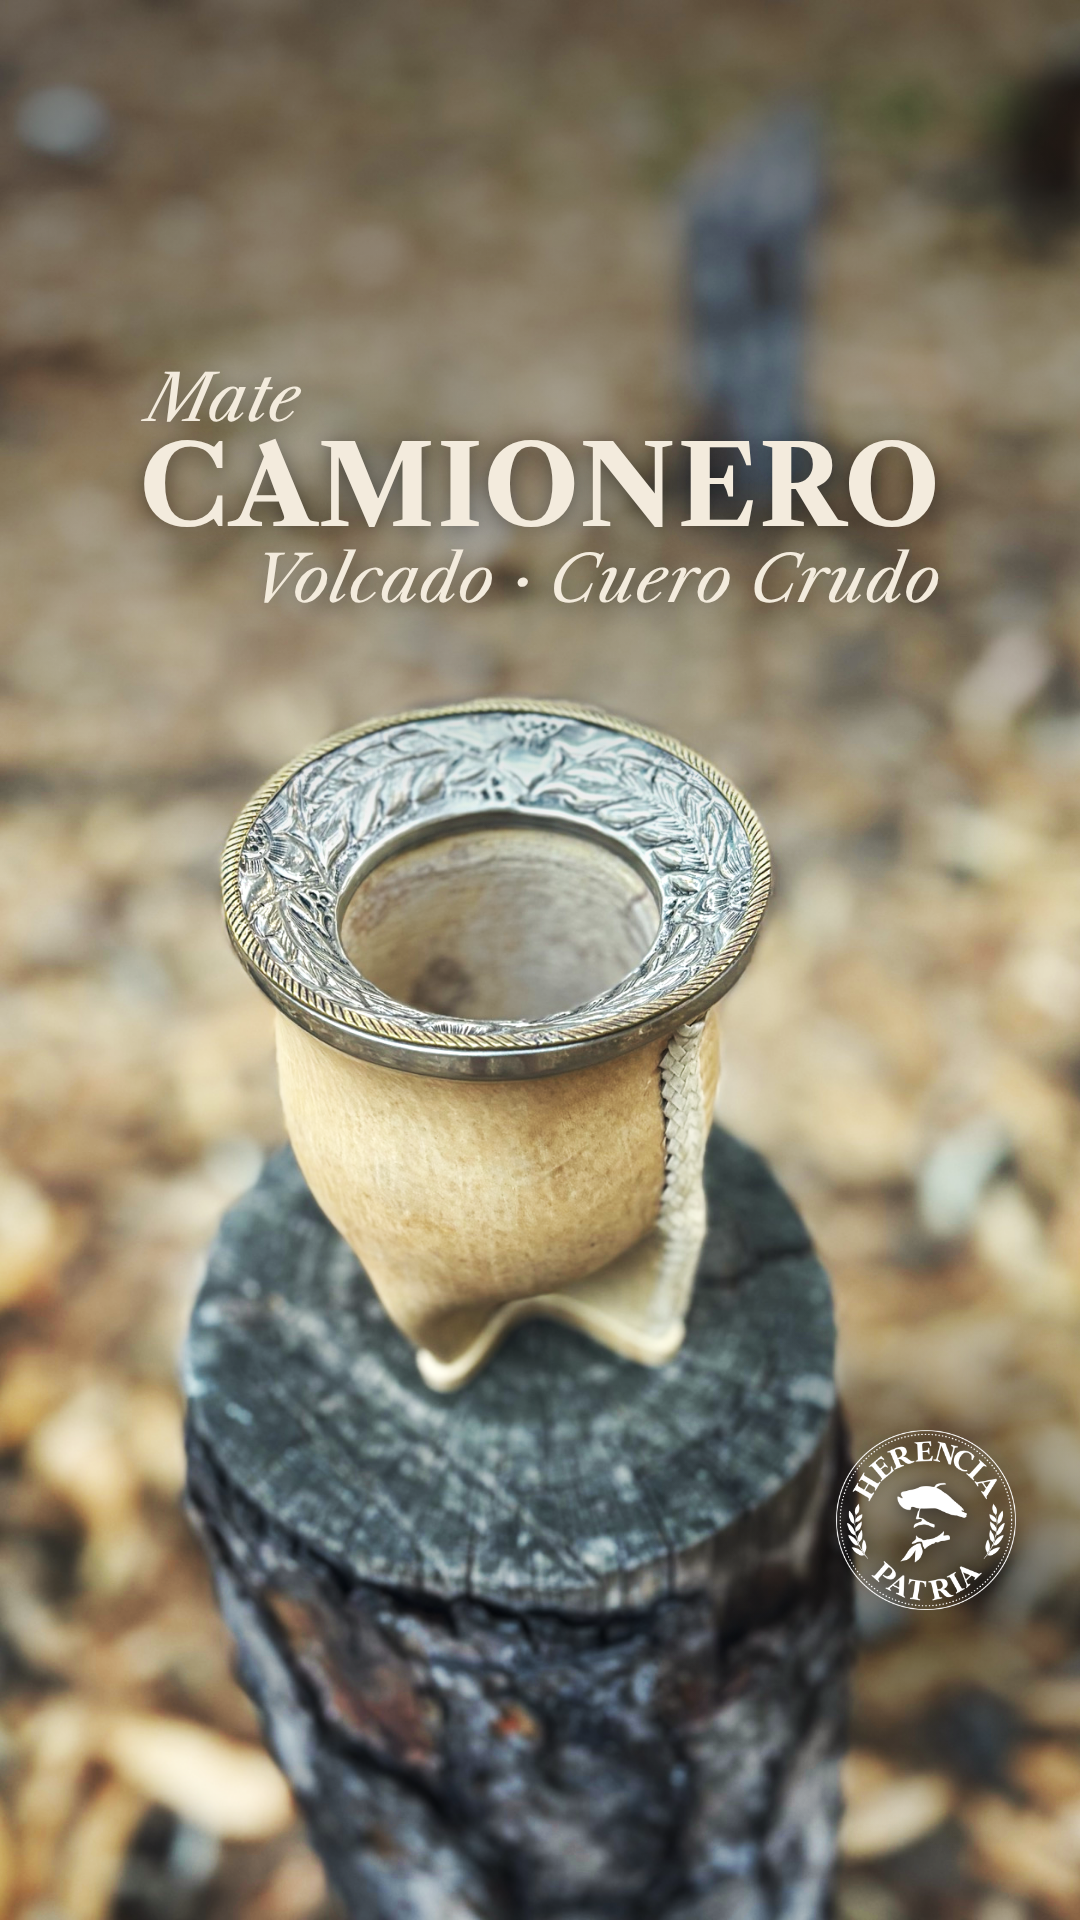
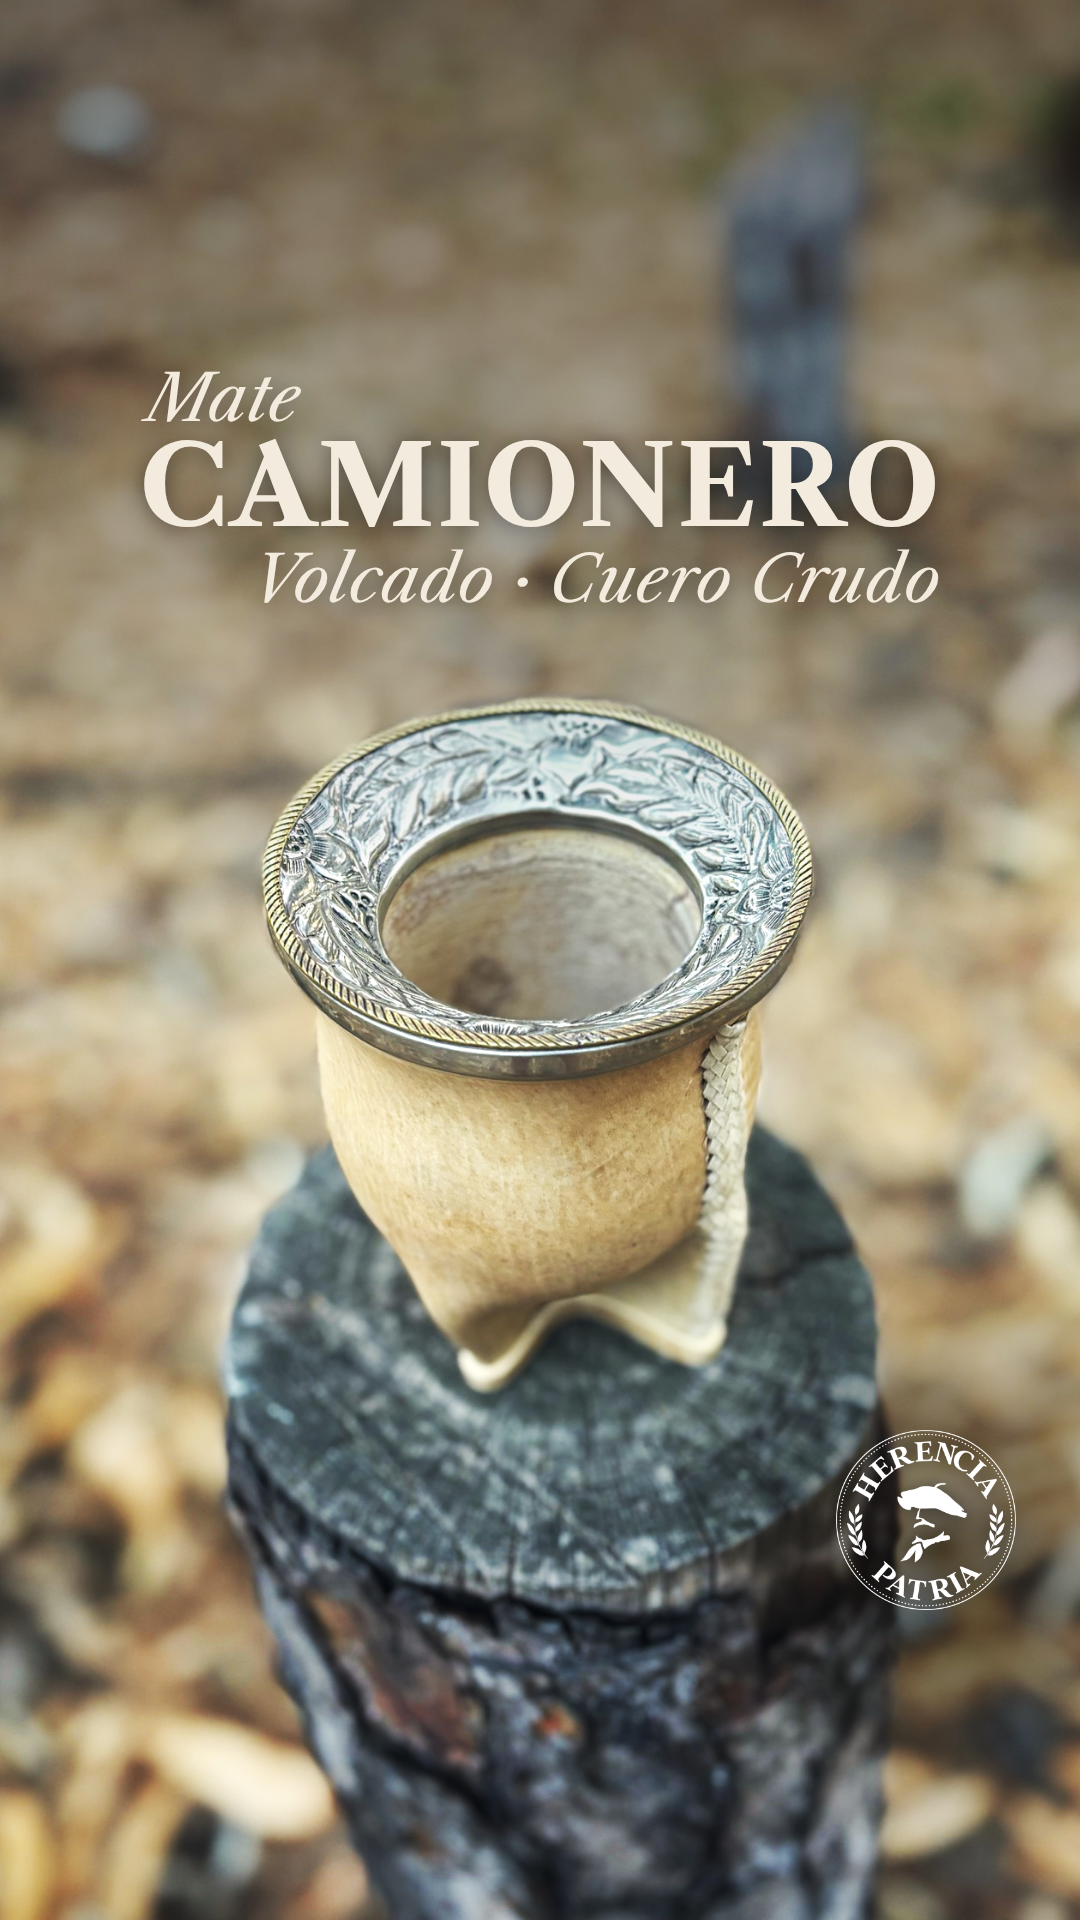
Center the mate on the Camionero Volcado cover
PortadaFeed gains focusX (object-position) to reframe the photo
horizontally; the virola now sits on the vertical centre line.

Claude-Session: https://claude.ai/code/session_01W2uTfCUGokKMKtzDGAbmtd

diff --git a/src/HerenciaPatria/PortadaFeed.tsx b/src/HerenciaPatria/PortadaFeed.tsx
@@ -24,6 +24,9 @@ export const PortadaFeed: React.FC<{
   readonly top?: number;
   readonly titleScale?: number;
   readonly zoom?: number;
+  // Encuadre horizontal de la foto (% como object-position), para centrar
+  // el producto.
+  readonly focusX?: number;
 }> = ({
   src,
   kicker,
@@ -35,6 +38,7 @@ export const PortadaFeed: React.FC<{
   top = 370,
   titleScale = 1,
   zoom = 1,
+  focusX = 50,
 }) => {
   const f =
     family === "caslon"
@@ -49,6 +53,7 @@ export const PortadaFeed: React.FC<{
           width: "100%",
           height: "100%",
           objectFit: "cover",
+          objectPosition: `${focusX}% 50%`,
           transform: `scale(${zoom})`,
           transformOrigin: "50% 0%",
         }}

diff --git a/src/Root.tsx b/src/Root.tsx
@@ -138,6 +138,7 @@ export const RemotionRoot: React.FC = () => {
           top: 365,
           titleScale: 0.8,
           zoom: 1.15,
+          focusX: 40,
         }}
       />
     </>
